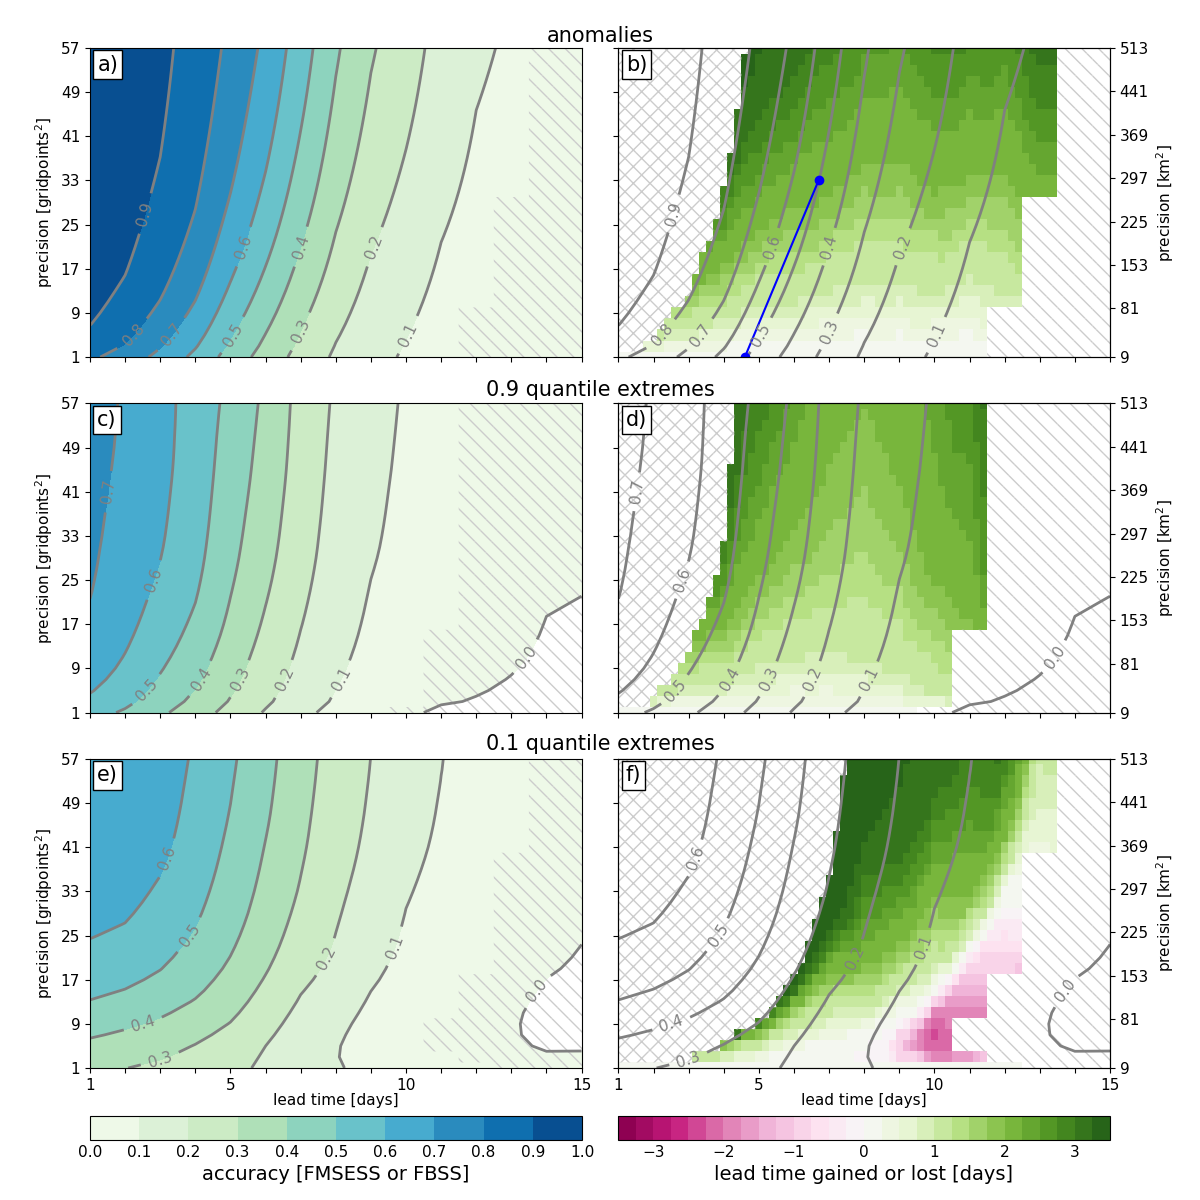
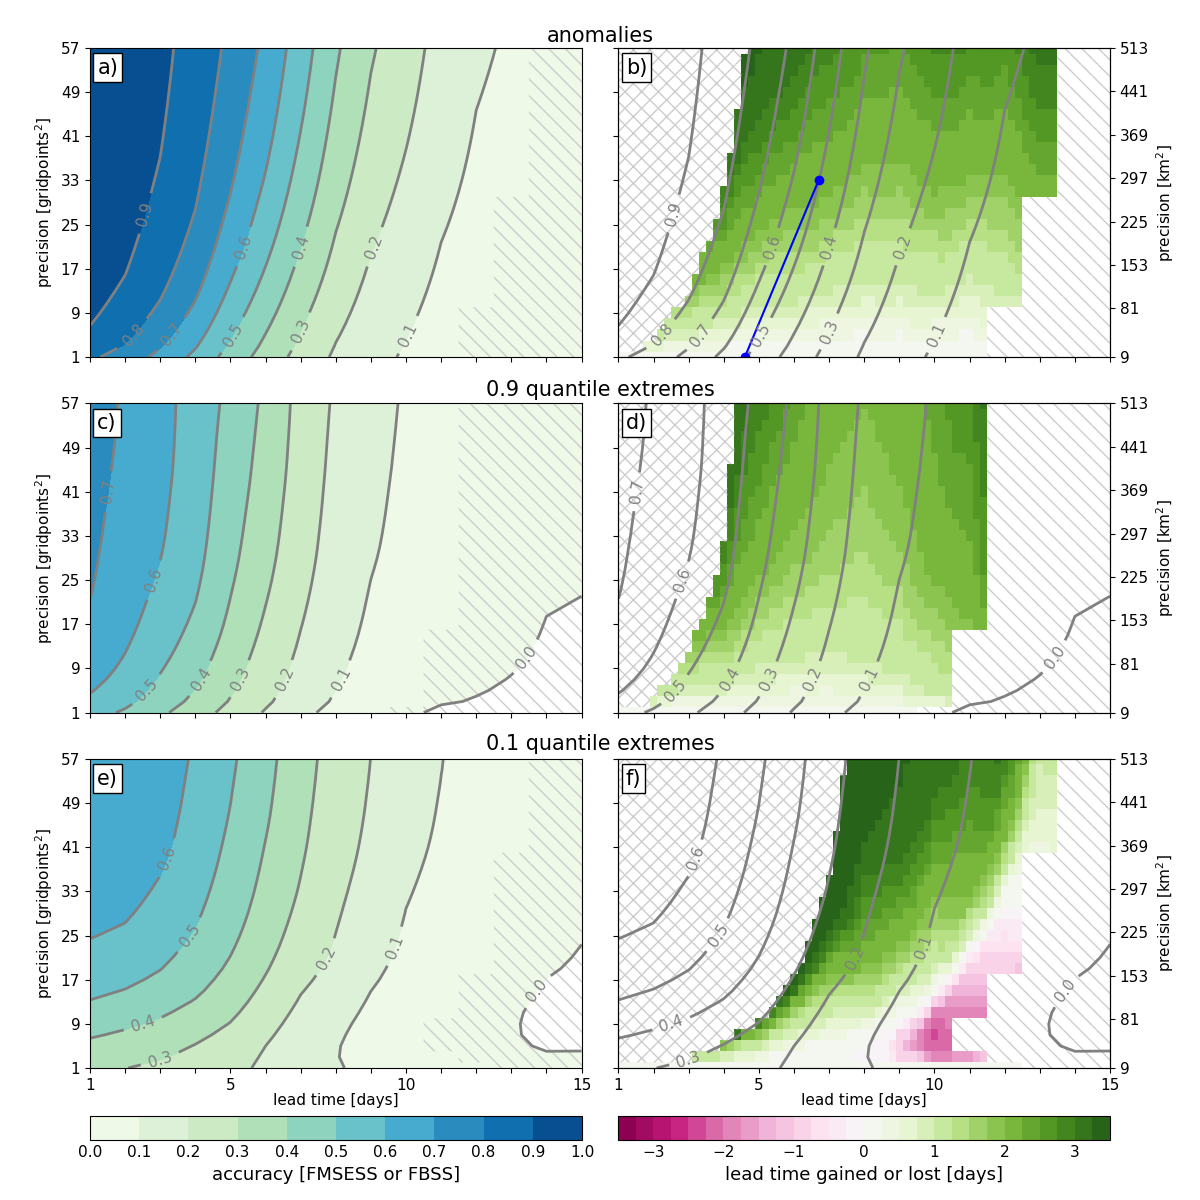
update

diff --git a/code/plot/plot-fig-01.py b/code/plot/plot-fig-01.py
@@ -50,7 +50,7 @@ def setup_subplot(flag, ax, ds, title_text, clevs_score, clevs_ltg, cmap_score, 
     ax.set_xticklabels(['1', '', '', '', '5', '', '', '', '', '10', '', '', '', '', '15'], fontsize=fontsize)
     
     ax.set_ylim([box_size[0], box_size[-2]])
-    ax.set_title(title_text, fontsize=fontsize + 4,loc='left', ha='left', y=0.9, x=0.015, bbox={'facecolor': 'white', 'edgecolor': 'black', 'pad': 3})
+    ax.set_title(title_text, fontsize=fontsize + 4,loc='left', ha='left', y=0.89, x=0.015, bbox={'facecolor': 'white', 'edgecolor': 'black', 'pad': 3})
     return p
 
 
@@ -104,12 +104,12 @@ fig.subplots_adjust(right=0.925, left=0.075,top=0.96,hspace=0.15,wspace=0.075)
 cb1_ax = fig.add_axes([0.075, 0.05, 0.41, 0.02])
 cb1    = fig.colorbar(p1, cax=cb1_ax, orientation='horizontal',ticks=clevs_score, pad=0.025)
 cb1.ax.tick_params(labelsize=fontsize, size=0) 
-cb1.ax.set_title('accuracy [FMSESS or FBSS]', fontsize=fontsize+3,y=-2)
+cb1.ax.set_title('accuracy [FMSESS or FBSS]', fontsize=fontsize+2,y=-2)
 
 cb2_ax = fig.add_axes([0.515, 0.05, 0.41, 0.02])
 cb2    = fig.colorbar(p2, cax=cb2_ax, orientation='horizontal',ticks=clevs_ltg[2::4], pad=0.025)
 cb2.ax.tick_params(labelsize=fontsize, size=0)
-cb2.ax.set_title('lead time gained or lost [days]', fontsize=fontsize+3,y=-2)
+cb2.ax.set_title('lead time gained or lost [days]', fontsize=fontsize+2,y=-2)
 
 # write2file
 if write2file: plt.savefig(path_out + figname_out)
